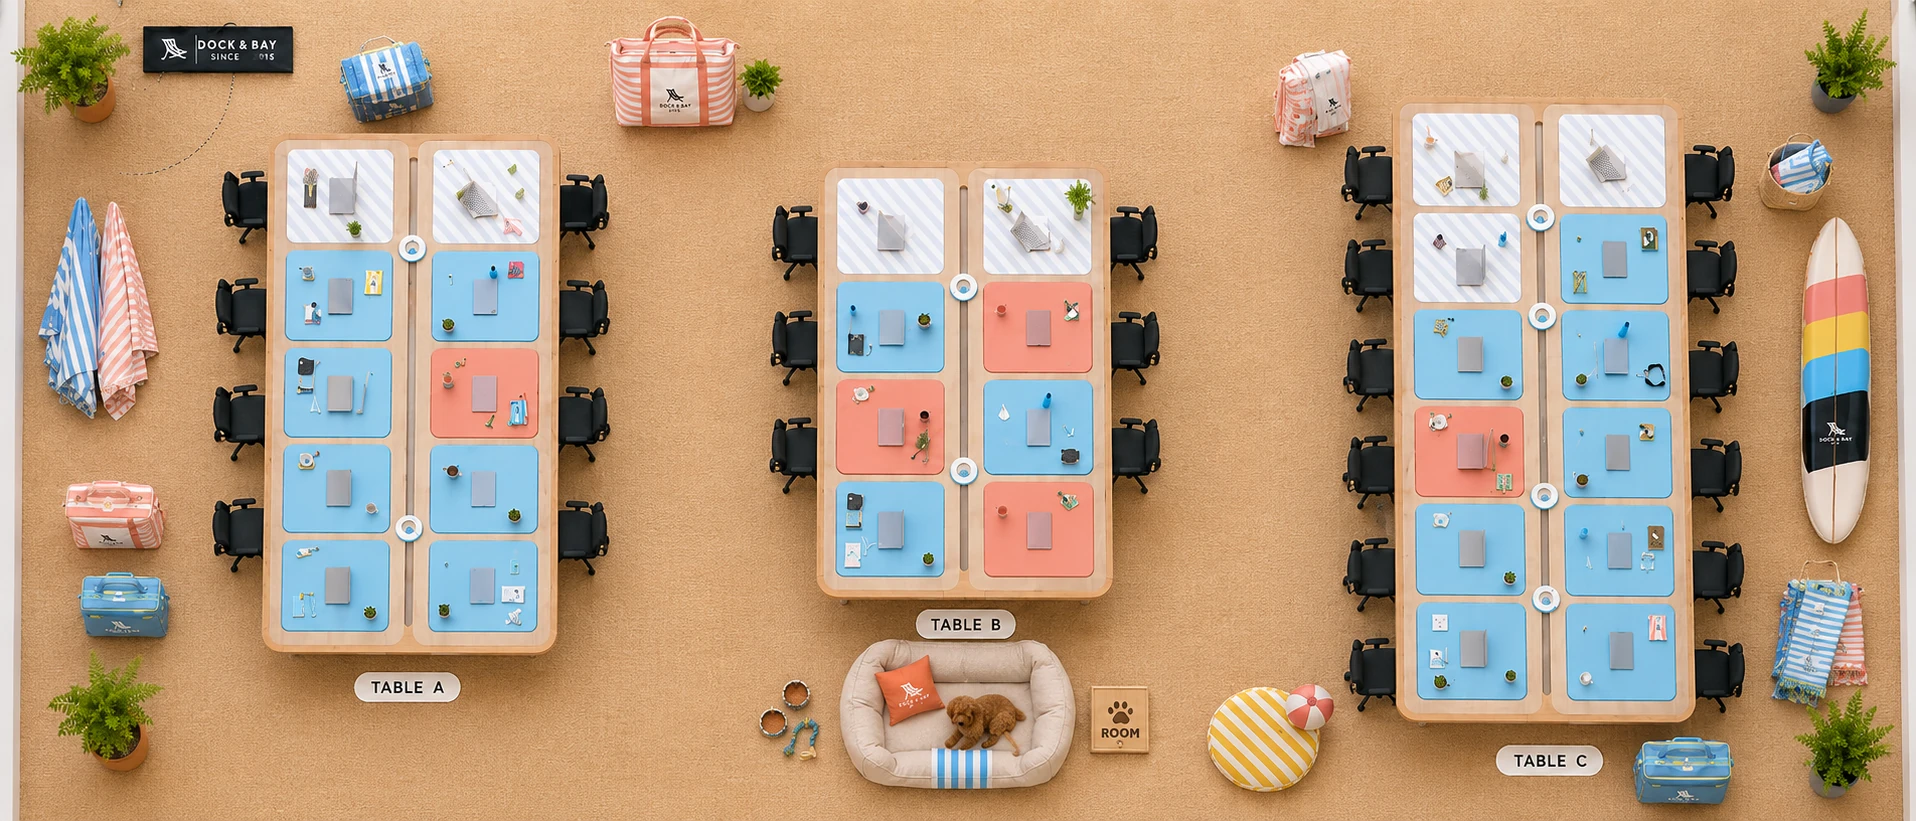
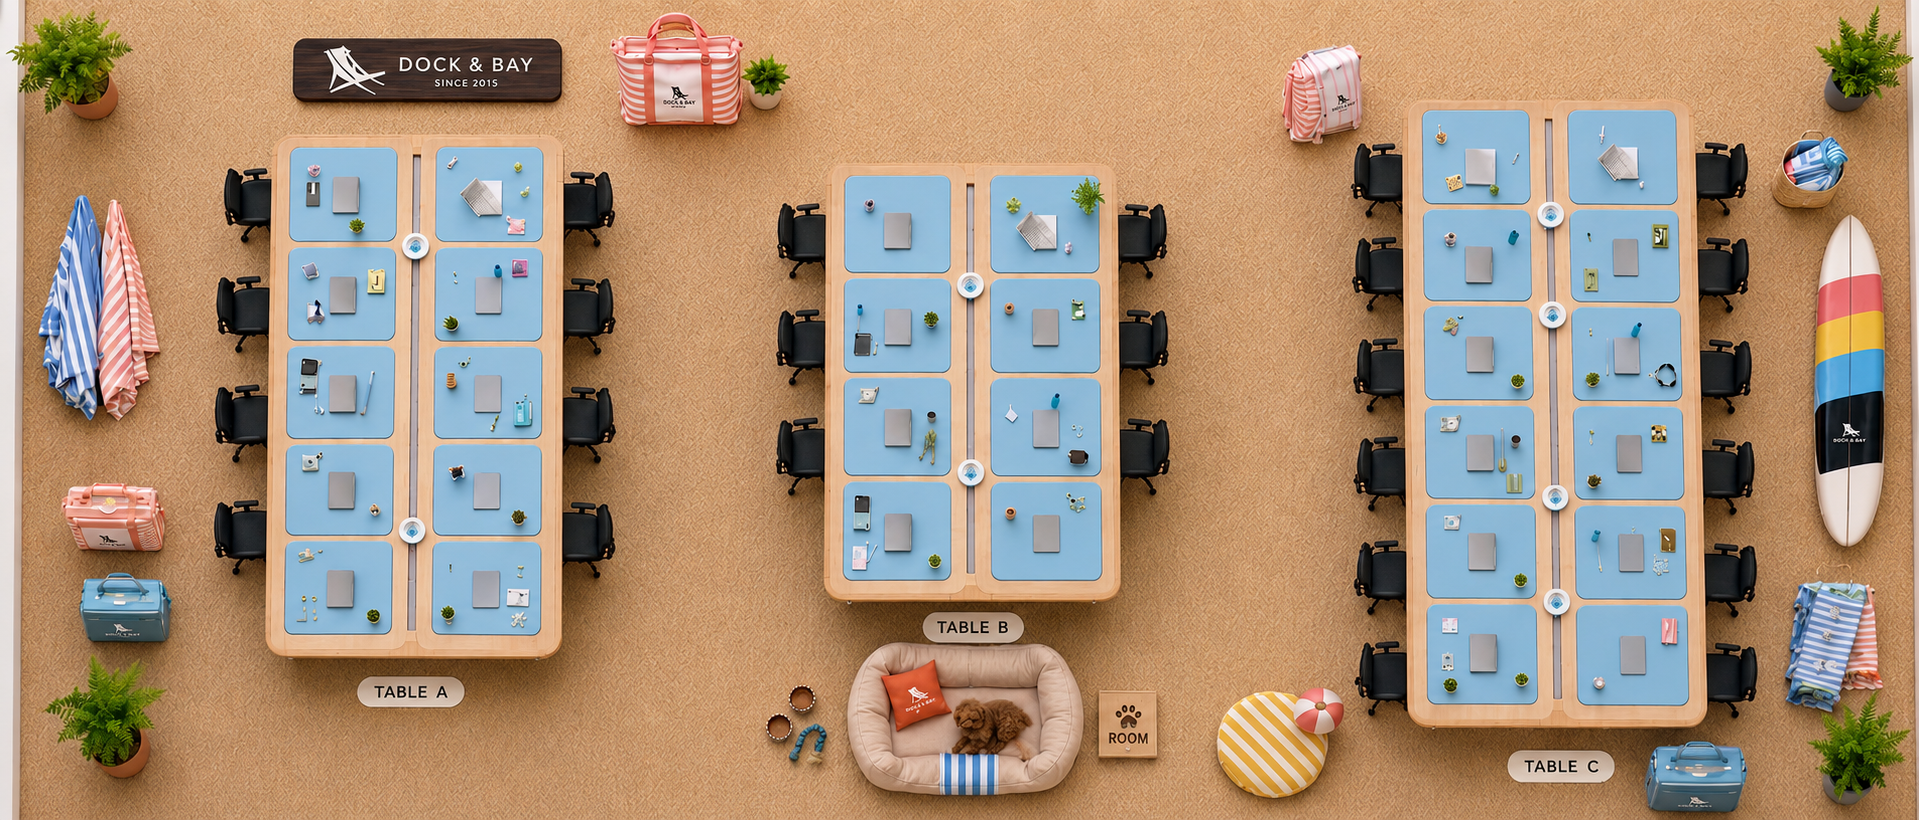
feat(floor-plan): swap to ChatGPT-generated image + recalibrate hotspots
New floor plan image (ChatGPT-generated, 1919x820, lossless WebP, 2.0MB)
replaces the prior Gemini image. Lossless chosen for crisp desk edges
and brand assets — internal-tool perf budget easily accommodates it.

Hotspot positions recalibrated via the in-app ?calibrate=1 tool.
All 30 desk boxes nudged to align with the new desk mat positions —
mostly minor adjustments since aspect ratio matched the original
floor plan (~1916x821).

Pup-bed click-to-book hotspot is a follow-up commit — current
PUP_BED_LANDSCAPE constant only renders dog names on the bed
(pointer-events-none), not clickable yet.

diff --git a/src/components/DeskLayoutMap.tsx b/src/components/DeskLayoutMap.tsx
@@ -24,40 +24,40 @@ interface DeskLayoutMapProps {
 // Both are calibrated visually with the in-app Hot/drag/resize tool when Hot is on.
 const LANDSCAPE_HOTSPOTS: Record<number, HotspotPos> = {
   // TABLE A (left, 10 desks, 5 rows × 2 cols)
-  5:  { x: 17.72, y: 23.81, w: 5.44, h: 10.75 }, // no-screen top
-  6:  { x: 25.31, y: 23.94, w: 5.26, h: 11.02 }, // no-screen top
-  4:  { x: 17.71, y: 35.95, w: 5.25, h: 10.71 },
-  7:  { x: 25.38, y: 35.93, w: 5.42, h: 10.34 },
-  3:  { x: 17.69, y: 47.70, w: 5.39, h: 10.05 },
-  8:  { x: 25.41, y: 47.73, w: 5.48, h: 10.26 }, // design
+  5:  { x: 17.90, y: 23.58, w: 4.93, h: 10.69 }, // no-screen top
+  6:  { x: 25.47, y: 23.66, w: 5.12, h: 10.46 }, // no-screen top
+  4:  { x: 17.83, y: 35.71, w: 4.98, h: 10.22 },
+  7:  { x: 25.47, y: 35.90, w: 4.97, h: 10.29 },
+  3:  { x: 17.76, y: 47.85, w: 5.21, h: 10.31 },
+  8:  { x: 25.35, y: 47.77, w: 5.14, h: 10.12 }, // design
   2:  { x: 17.56, y: 59.58, w: 5.20, h: 10.12 },
   9:  { x: 25.27, y: 59.57, w: 5.37, h: 9.95 },
-  1:  { x: 17.49, y: 71.38, w: 5.44, h: 10.80 },
-  10: { x: 25.29, y: 71.23, w: 5.47, h: 10.77 },
+  1:  { x: 17.61, y: 71.71, w: 5.16, h: 10.72 },
+  10: { x: 25.33, y: 71.73, w: 5.12, h: 10.77 },
 
   // TABLE B (middle, 8 desks, 4 rows × 2 cols)
-  14: { x: 46.46, y: 27.51, w: 5.29, h: 11.15 }, // no-screen top
-  15: { x: 54.25, y: 27.57, w: 5.53, h: 11.51 }, // no-screen top
-  13: { x: 46.43, y: 39.90, w: 5.51, h: 10.31 },
-  16: { x: 54.10, y: 40.05, w: 5.41, h: 10.38 }, // design
-  12: { x: 46.41, y: 52.04, w: 5.42, h: 10.67 }, // design
-  17: { x: 54.07, y: 52.03, w: 5.64, h: 11.05 },
-  11: { x: 46.48, y: 64.43, w: 5.27, h: 10.90 },
-  18: { x: 54.14, y: 64.49, w: 5.50, h: 10.88 }, // design
+  14: { x: 46.85, y: 27.44, w: 5.11, h: 11.15 }, // no-screen top
+  15: { x: 54.44, y: 27.29, w: 5.25, h: 10.95 }, // no-screen top
+  13: { x: 46.74, y: 39.90, w: 5.14, h: 10.31 },
+  16: { x: 54.47, y: 39.68, w: 5.13, h: 10.38 }, // design
+  12: { x: 46.80, y: 52.18, w: 5.22, h: 10.68 }, // design
+  17: { x: 54.52, y: 52.07, w: 5.21, h: 10.76 },
+  11: { x: 46.75, y: 64.65, w: 5.20, h: 10.89 },
+  18: { x: 54.49, y: 64.89, w: 5.12, h: 11.12 }, // design
 
   // TABLE C (right, 12 desks, 6 rows × 2 cols)
-  24: { x: 76.52, y: 19.57, w: 5.44, h: 10.71 }, // no-screen top
-  25: { x: 84.16, y: 19.62, w: 5.41, h: 10.47 }, // no-screen top
-  23: { x: 76.48, y: 31.42, w: 5.46, h: 10.01 }, // no-screen
-  26: { x: 84.21, y: 31.58, w: 5.40, h: 10.14 },
-  22: { x: 76.61, y: 43.19, w: 5.39, h: 10.43 },
-  27: { x: 84.32, y: 43.38, w: 5.33, h: 10.37 },
-  21: { x: 76.64, y: 55.00, w: 5.52, h: 10.27 }, // design
-  28: { x: 84.34, y: 55.26, w: 5.45, h: 10.07 },
-  20: { x: 76.74, y: 66.95, w: 5.62, h: 10.55 },
-  29: { x: 84.48, y: 66.95, w: 5.54, h: 10.23 },
-  19: { x: 76.77, y: 79.23, w: 5.42, h: 11.23 },
-  30: { x: 84.62, y: 79.43, w: 5.60, h: 11.05 },
+  24: { x: 76.93, y: 19.38, w: 5.11, h: 10.71 }, // no-screen top
+  25: { x: 84.56, y: 19.16, w: 4.97, h: 10.47 }, // no-screen top
+  23: { x: 76.98, y: 31.19, w: 5.07, h: 9.88 }, // no-screen
+  26: { x: 84.71, y: 31.39, w: 5.08, h: 9.76 },
+  22: { x: 77.06, y: 42.90, w: 5.28, h: 10.22 },
+  27: { x: 84.74, y: 43.13, w: 5.02, h: 9.86 },
+  21: { x: 77.14, y: 54.99, w: 5.05, h: 10.11 }, // design
+  28: { x: 84.81, y: 55.26, w: 5.15, h: 10.07 },
+  20: { x: 77.17, y: 67.19, w: 5.06, h: 10.01 },
+  29: { x: 84.97, y: 67.47, w: 5.29, h: 10.19 },
+  19: { x: 77.28, y: 79.70, w: 5.42, h: 11.17 },
+  30: { x: 85.05, y: 79.84, w: 5.18, h: 10.88 },
 };
 
 // Pup bed position on the landscape image (centre-bottom)
